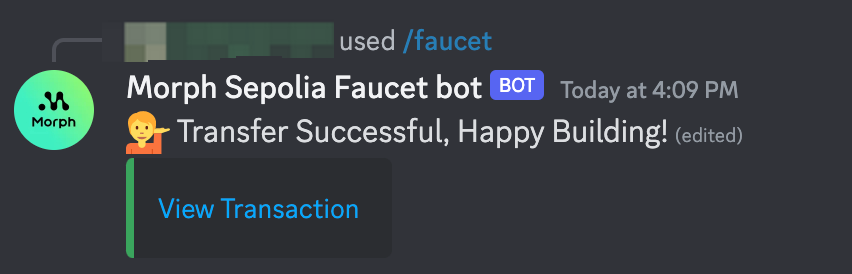
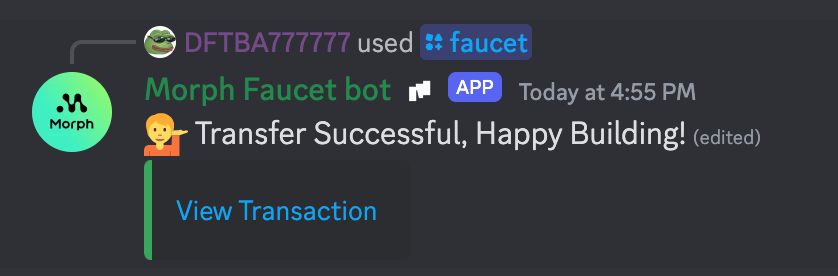
Update

Changed region(s): [[0.0, 0.0584, 0.8998, 0.9343]]

diff --git a/sidebars.js b/sidebars.js
@@ -90,6 +90,7 @@ module.exports = {
       type: 'doc',
       id:'quick-start/bridge'
     },
+    /*
     {
       type: 'category',
       label: 'Morph Zoo',
@@ -100,6 +101,7 @@ module.exports = {
         },
       ],
     },
+    */
     {
       type: 'link',
       href: "https://bridge-holesky.morphl2.io/",

diff --git a/docs/quick-start/3-faucet.md b/docs/quick-start/3-faucet.md
@@ -42,11 +42,9 @@ You can obtain morph's version of USDT on Holesky through our discord faucet, he
 
 3. type */faucet* in the channel and add your Holesky address behind it.
 
-![command](../../assets/docs/quick-start/faucet/command.png)
+![command](../../assets/docs/quick-start/faucet/faucet_c.png)
 
 4. Wait for a few seconds.
-
-![mining](../../assets/docs/quick-start/faucet/mining.png)
 
 5. Once succeeded, you will see this in the channel.
 
@@ -56,9 +54,9 @@ You can obtain morph's version of USDT on Holesky through our discord faucet, he
 
 ~~~
 
-Holesky address: "0x5F4c7D793D898e64eddd1fC82D27EcfB5F6e4596"
+Ethereum Holesky USDT address: "0xD6e9Cd5ef382b0830653d1b2007D5Ca6987FaA26"
 
-Morph Holesky address: "0xB4A71512cf4F3A8f675D2aeC76198D6419D219C7"
+Morph Holesky USDT address: "0x9E12AD42c4E4d2acFBADE01a96446e48e6764B98"
 
 ~~~
 
@@ -69,3 +67,8 @@ Morph Holesky address: "0xB4A71512cf4F3A8f675D2aeC76198D6419D219C7"
 You can obtain the Morph Holesky ETH in our discord too for development purposes.
 
 Using the */morph_eth* command and type your address will grant you 0.01 Morph Holesky ETH.
+
+Once succeed, you will see the following message:
+
+![success](../../assets/docs/quick-start/faucet/faucet_eth.png)
+

diff --git a/docs/quick-start/morph-zoo/1-morph-points.md b/docs/quick-start/morph-zoo/1-morph-points.md
@@ -5,7 +5,7 @@ keywords: [morph,ethereum,rollup,layer2,validity proof,optimistic zk-rollup]
 description: Upgrade your blockchain experience with Morph - the secure decentralized, cost0efficient, and high-performing optimistic zk-rollup solution. Try it now!
 ---
 
-To bring our community even closer to the action, we're excited to announce the [Morph Zoo](morphl2.io/points/)
+To bring our community even closer to the action, we're excited to announce the [Morph Zoo](https:/morphl2.io/points/)
 
  - a multiphase program designed to engage, reward, and celebrate the vibrant ecosystem within our testnet and, eventually, our mainnet. Our aim is to immerse you in our world, one where consumer needs are prioritized and where your input directly impacts our growth trajectory.
 
